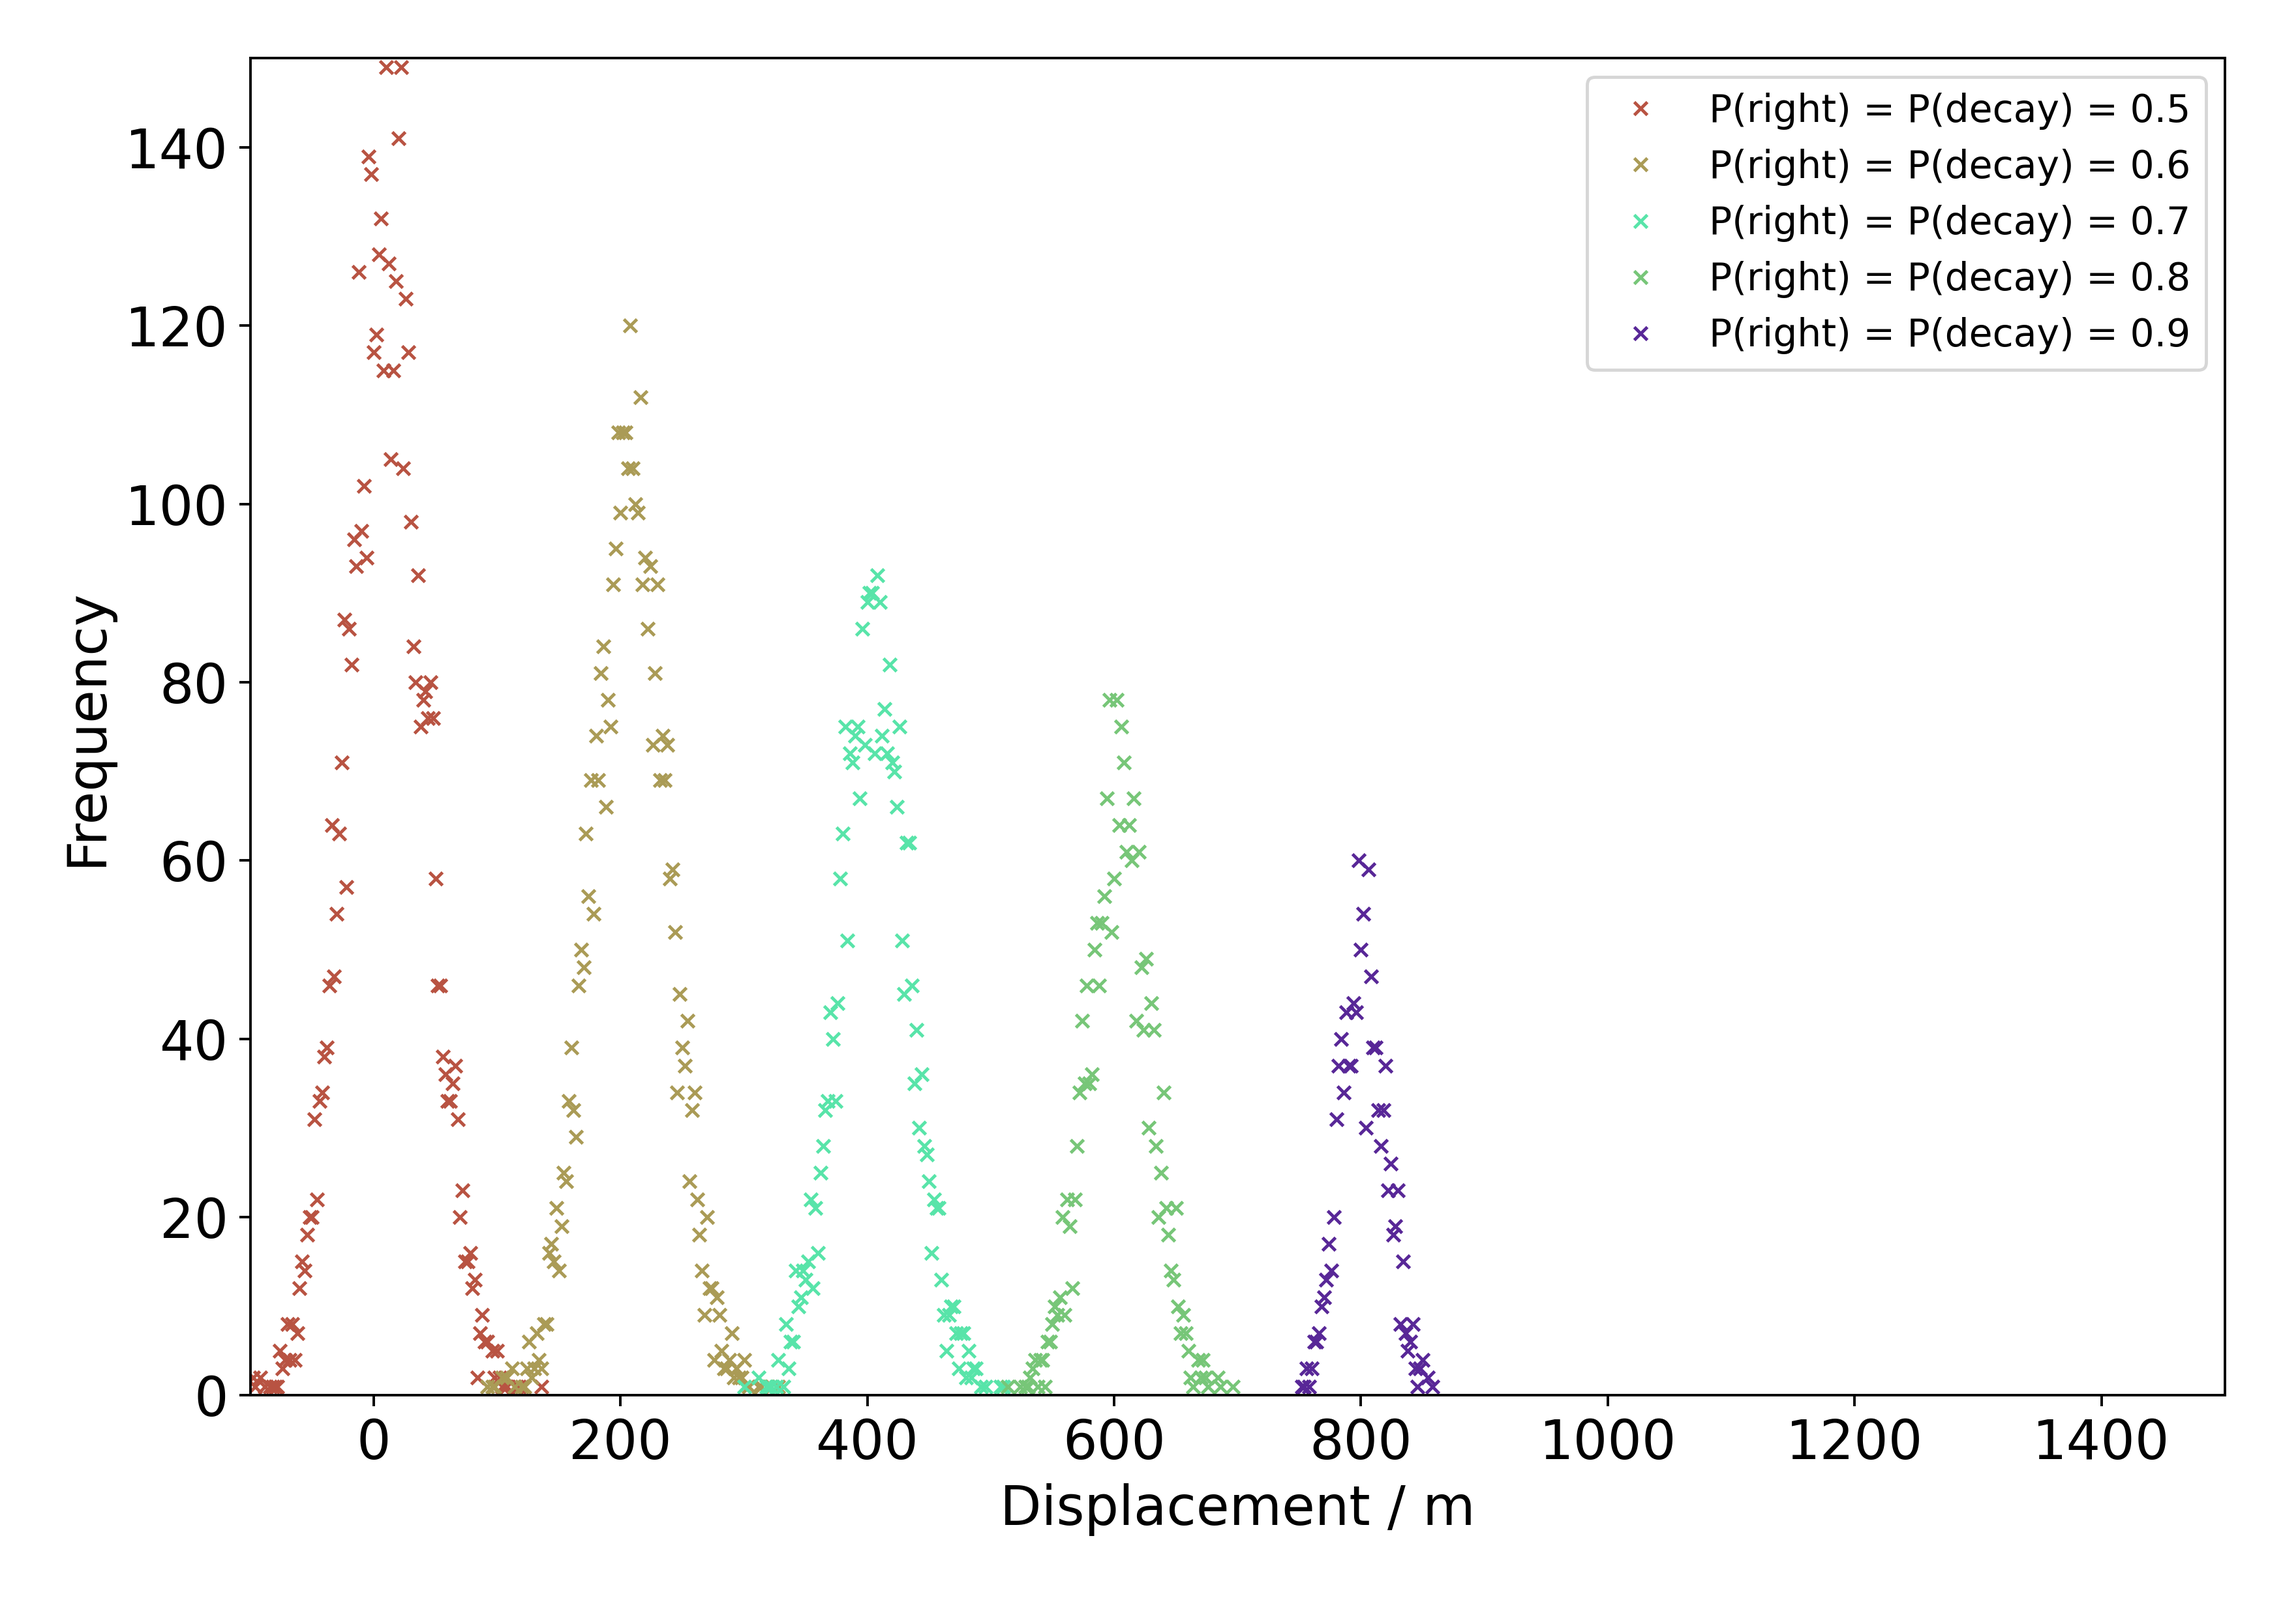
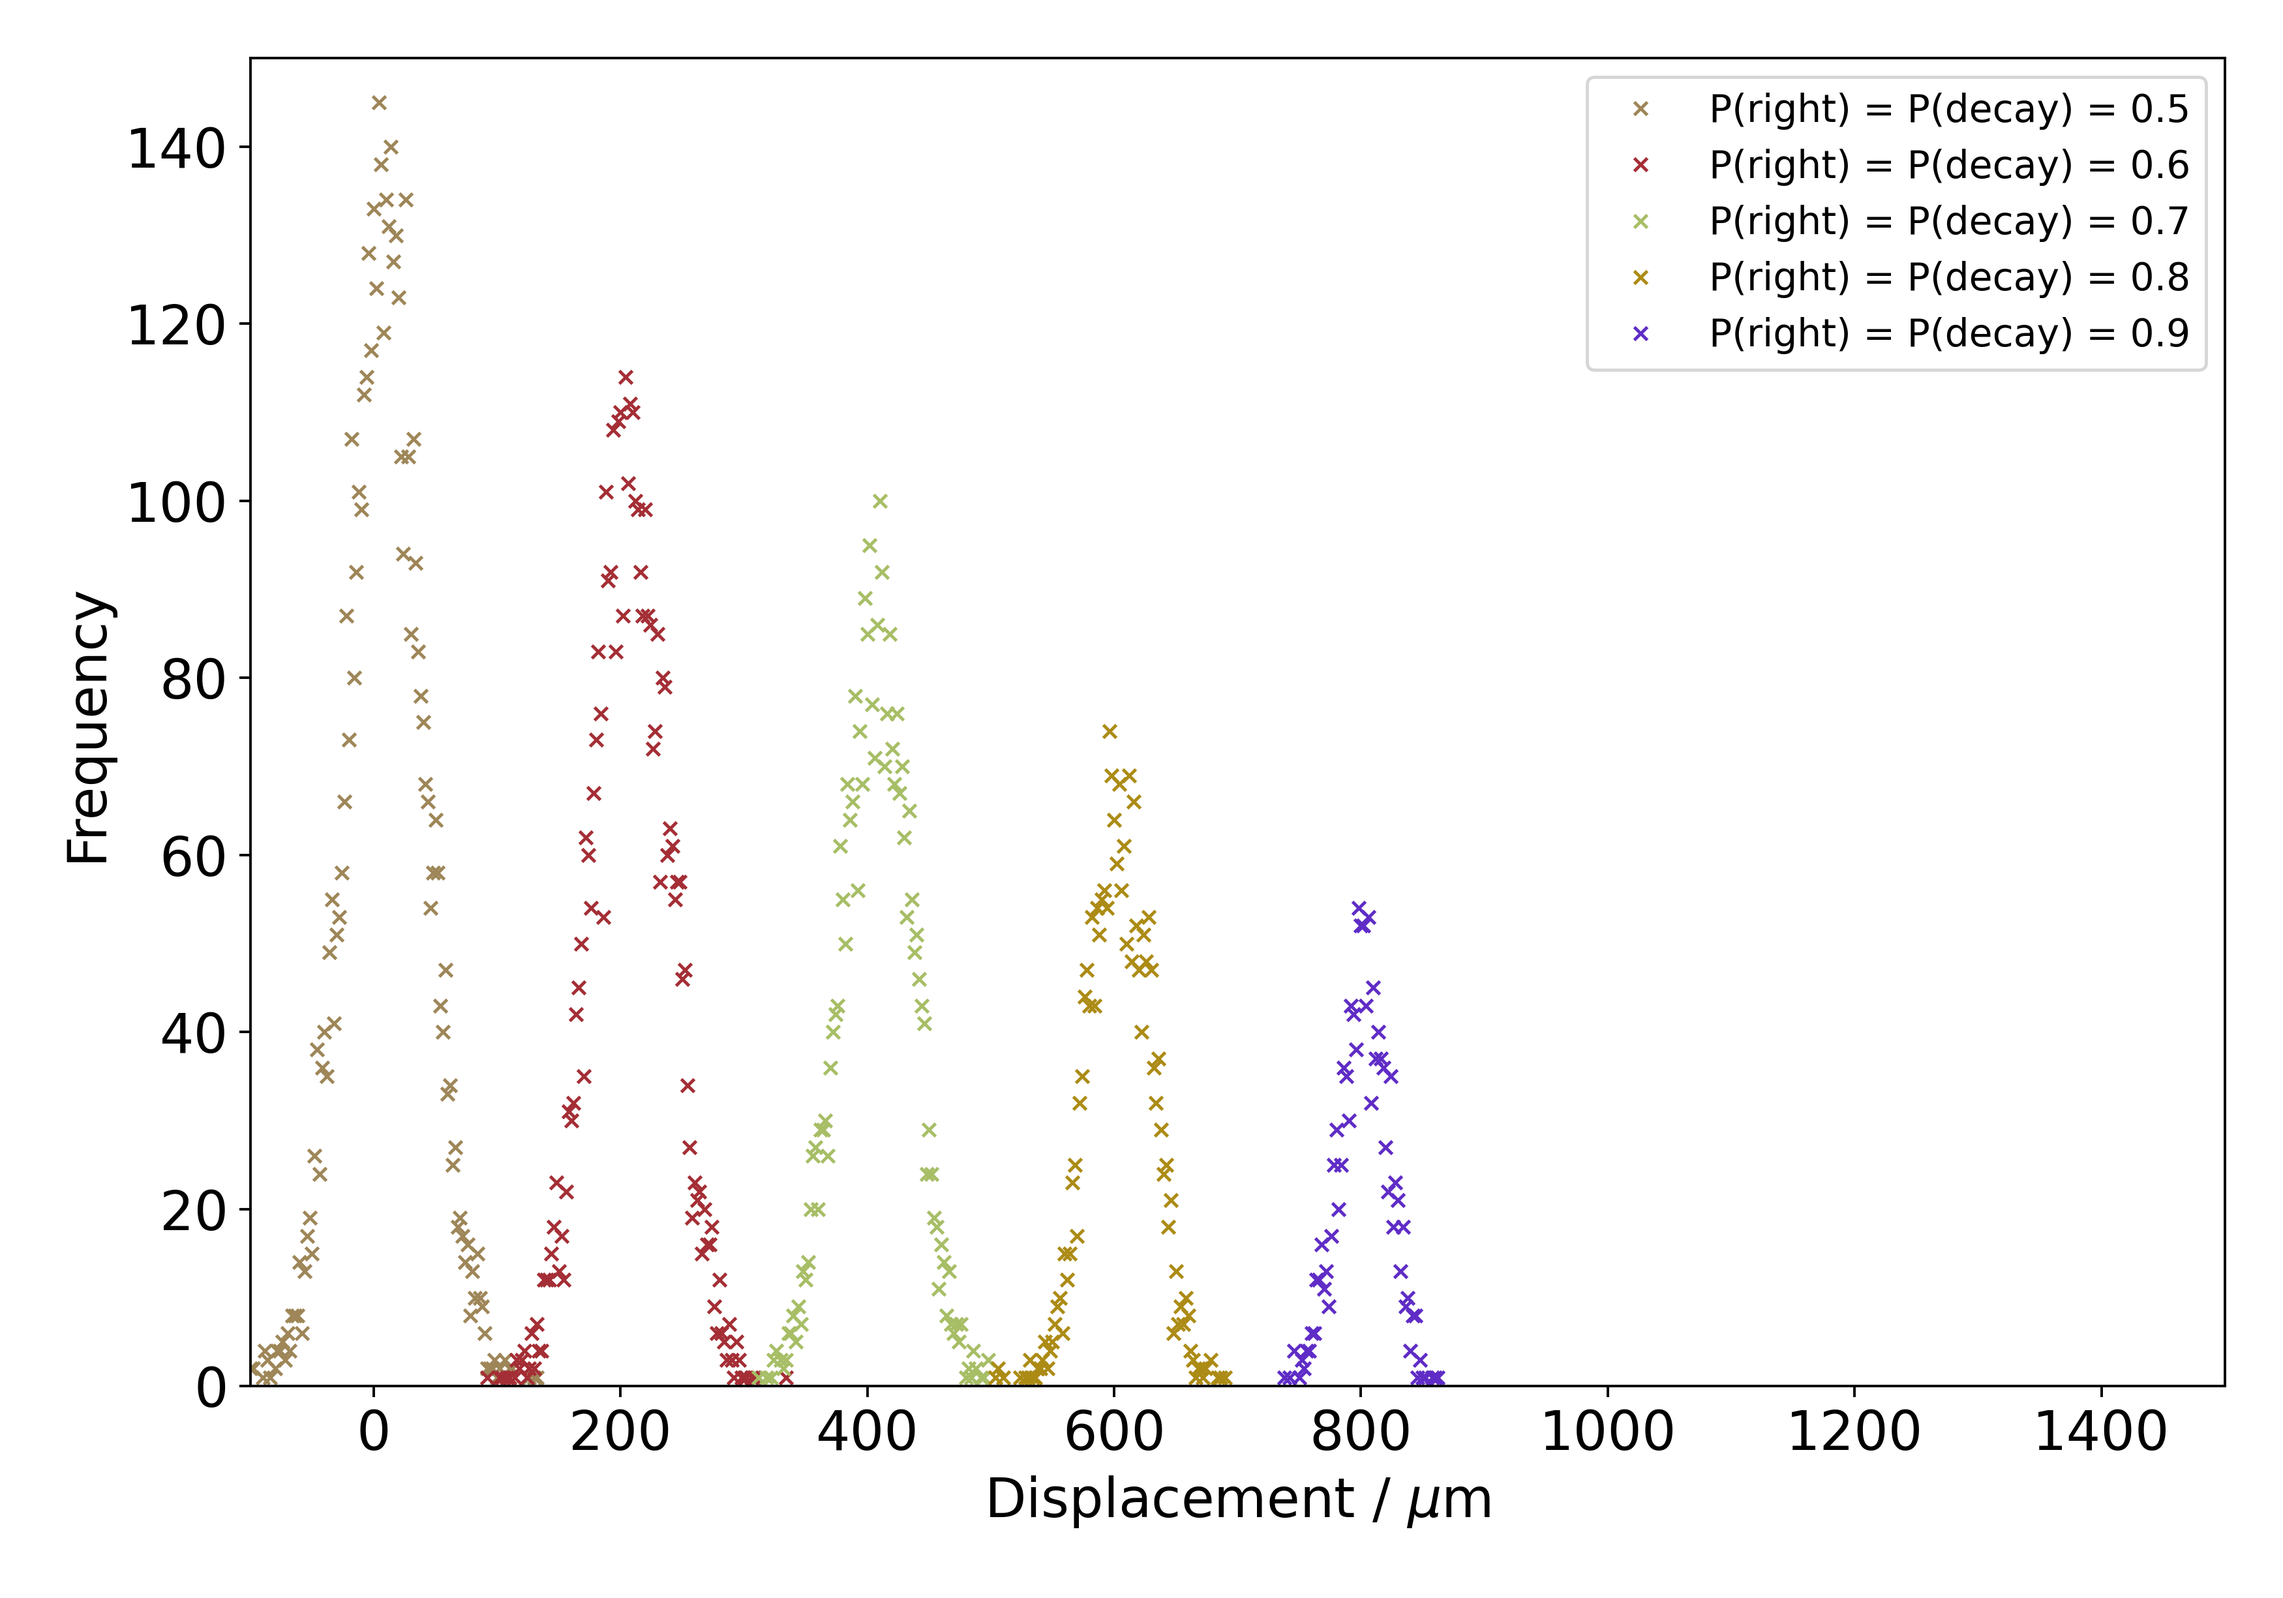
Update random-walk displacement label

diff --git a/src/random_walk.py b/src/random_walk.py
@@ -6,7 +6,7 @@ from diffusion import Diffusion
 
 class RandomWalk():
     def __init__(self):
-        self.xlabel = "Displacement / m"
+        self.xlabel = "Displacement / $\mu$m"
         self.ylabel = "Frequency"
         self.values = Values() #initialises values
         self.xlist = np.linspace(-1, 1, 500000)
